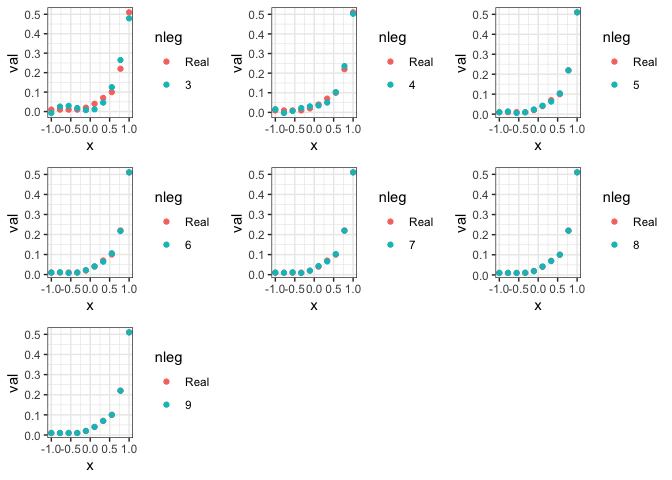
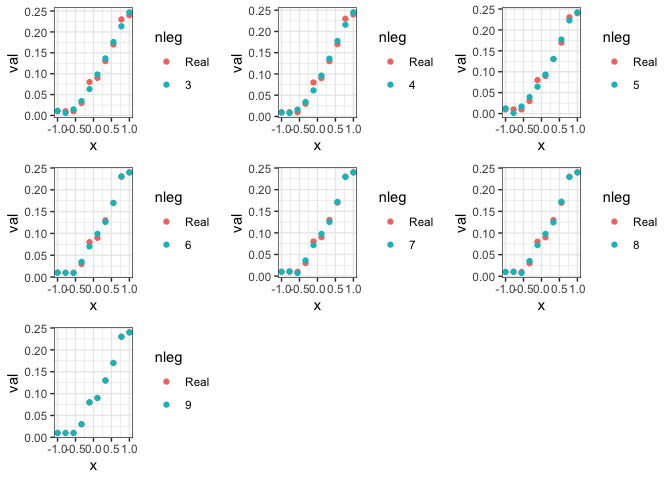
Summing squared errors and comparing distance from lg fit to real, mete to distance between real, mete

diff --git a/reports/fit_legendre.md b/reports/fit_legendre.md
@@ -1,0 +1,100 @@
+fit\_legendre
+================
+Renata Diaz
+8/19/2019
+
+``` r
+library(ggplot2)
+library(meteR)
+library(orthopolynom)
+```
+
+    ## Loading required package: polynom
+
+``` r
+library(dplyr)
+```
+
+    ## 
+    ## Attaching package: 'dplyr'
+
+    ## The following objects are masked from 'package:stats':
+    ## 
+    ##     filter, lag
+
+    ## The following objects are masked from 'package:base':
+    ## 
+    ##     intersect, setdiff, setequal, union
+
+``` r
+get_leg_matrix <- function(n, x) {
+  legcoeff <- legendre.polynomials(n = n, normalized = TRUE)
+  
+  legmat <- as.matrix(as.data.frame(polynomial.values(polynomials=legcoeff,
+                                                      x=scaleX(x, u=-1, v=1))))
+  legmat <- legmat[, 2:ncol(legmat)]
+  
+  colnames(legmat) <- c(1:n)
+  return(legmat)
+}
+```
+
+``` r
+portal_data <- isds::get_toy_portal_data(download=T)
+```
+
+    ## Loading in data version 1.90.0
+
+``` r
+portal_sad <- portal_data %>%
+  select(species) %>%
+  group_by(species) %>%
+  summarize(abund = n()) %>%
+  ungroup() %>%
+  select(abund) %>%
+  arrange(abund) %>%
+  as.matrix() %>%
+  as.vector()
+
+this_esf <- meteESF(S0 = length(portal_sad), N0 = sum(portal_sad))
+this_sad <- sad(this_esf)
+this_sad_draw <- c(0, 1)
+
+set.seed(1977)
+
+while(sum(this_sad_draw) != sum(portal_sad)) {
+  this_sad_draw <- this_sad$r(length(portal_sad))
+}
+
+mete_sad <- sort(this_sad_draw)
+
+std_df <- data.frame(x = 1:length(portal_sad), 
+                     mete = mete_sad / sum(mete_sad),
+                     real = portal_sad/sum(portal_sad),
+                     nleg = "Emp")
+
+std_df$x <- std_df$x - mean(std_df$x)
+std_df$x <- std_df$x / (max(std_df$x))
+```
+
+``` r
+real_plot <- ggplot(data = std_df, aes(x = x, y = real)) +
+  geom_point(color = "green") +
+  geom_point(aes(x = x, y = mete), color = "blue") +
+  theme_bw() +
+  xlim(-1, 1) +
+  ylim(0, 1)
+real_plot
+```
+
+![](fit_legendre_files/figure-markdown_github/plot%20data-1.png)
+
+    ## Warning in predict.lm(leg_fits[[i]]$real, newdata =
+    ## as.data.frame(std_df$x)): prediction from a rank-deficient fit may be
+    ## misleading
+
+    ## Warning in predict.lm(leg_fits[[i]]$mete, newdata =
+    ## as.data.frame(std_df$x)): prediction from a rank-deficient fit may be
+    ## misleading
+
+![](fit_legendre_files/figure-markdown_github/fit%20with%20legendre%20polynomials-1.png)![](fit_legendre_files/figure-markdown_github/fit%20with%20legendre%20polynomials-2.png)![](fit_legendre_files/figure-markdown_github/fit%20with%20legendre%20polynomials-3.png)

diff --git a/reports/legendre.md b/reports/legendre.md
@@ -37,7 +37,7 @@ this_sad_draw <- this_sad$r(10)
 sum(this_sad_draw)
 ```
 
-    ## [1] 185
+    ## [1] 137
 
 ``` r
 while(sum(this_sad_draw) != 100) {
